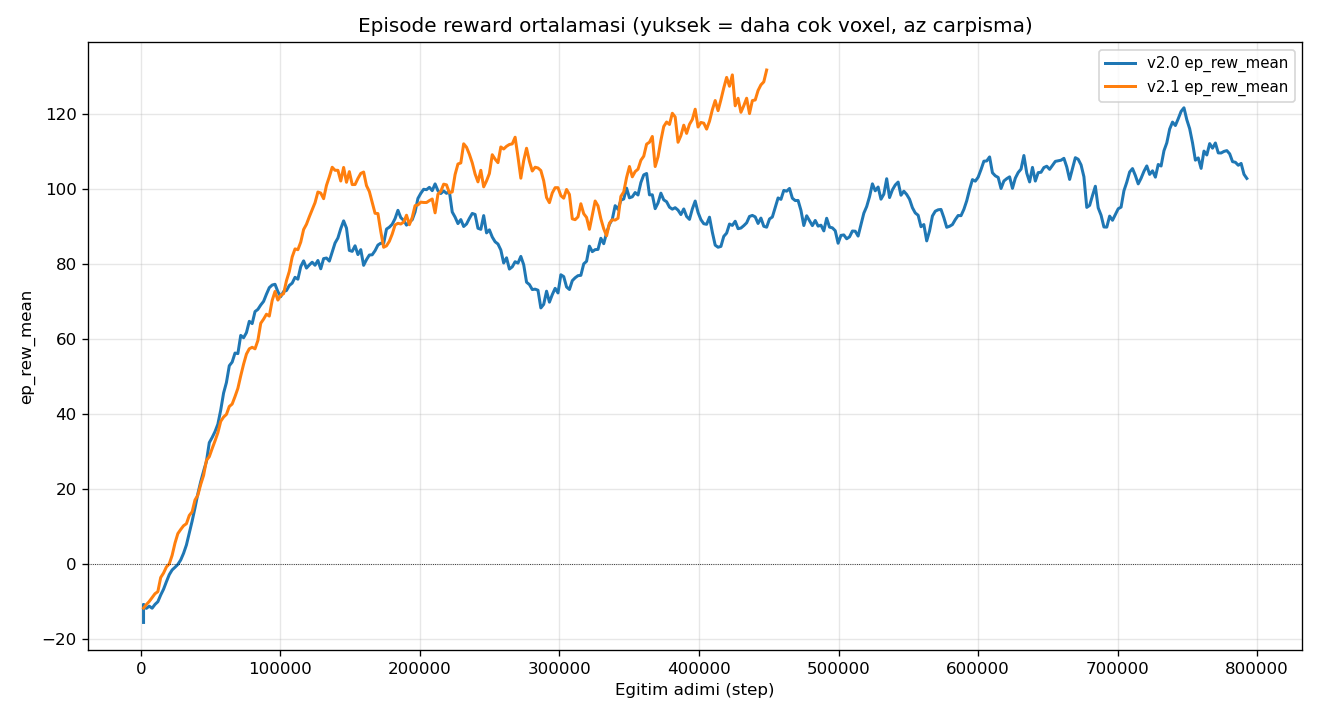
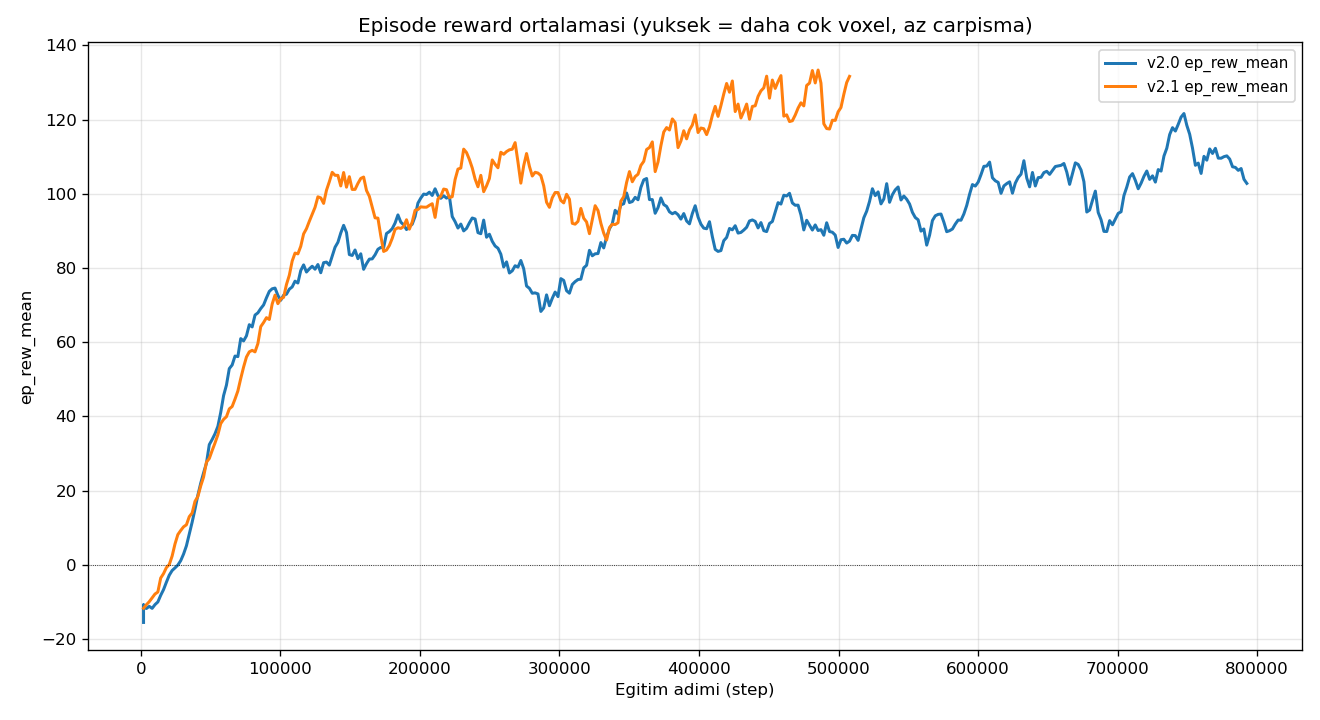
auto(operator): v2.1 500k tamamlandi -> 700k resume
- 500k hedefe ulasildi (ppo_drone_final.zip saved), kayit-sonrasi iyi-huylu teardown abort.
- resume_from=ppo_drone_final.zip; restart -> target=700k, remaining=198240, temiz devam.
- reward 123 (peak 133@485k), voxels_max 241, rooms_max 6, fps 40.

diff --git a/docs/REPORT.md b/docs/REPORT.md
@@ -7,7 +7,7 @@ Otomatik uretildi (`scripts/report.py`). Operator agent gunceller.
 | Versiyon | Son step | Son reward | Peak reward | Peak voxel (max) | Peak oda (max) |
 |---|---|---|---|---|---|
 | v2.0 | 792,576 | +102.8 | +121.6 | 232/1024 | 6/6 |
-| v2.1 | 448,512 | +131.7 | +131.7 | 268/1024 | 6/6 |
+| v2.1 | 507,904 | +131.6 | +133.4 | 268/1024 | 6/6 |
 
 ## Versiyon / Mudahale Gunlugu
 
